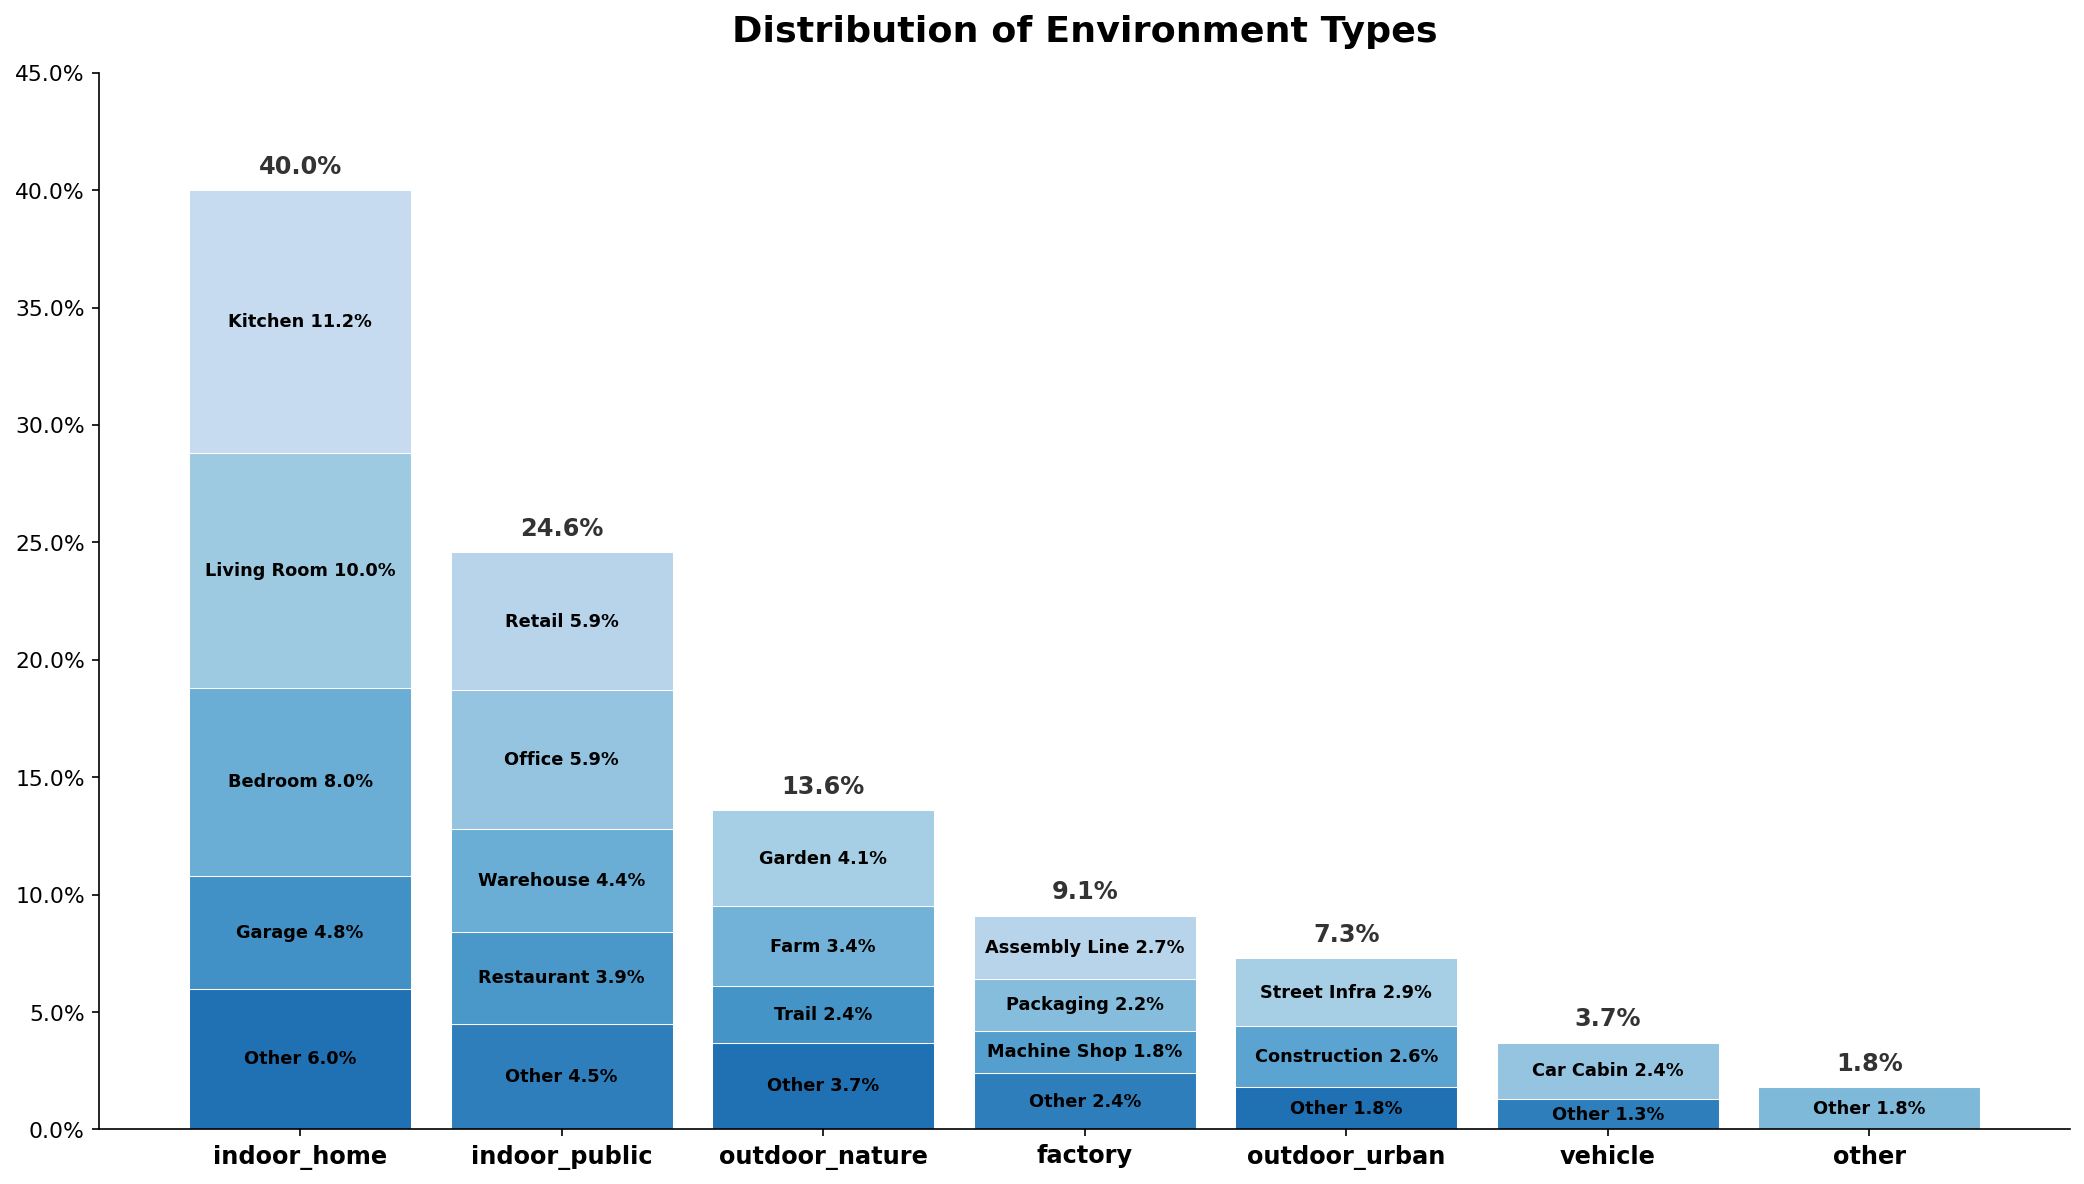
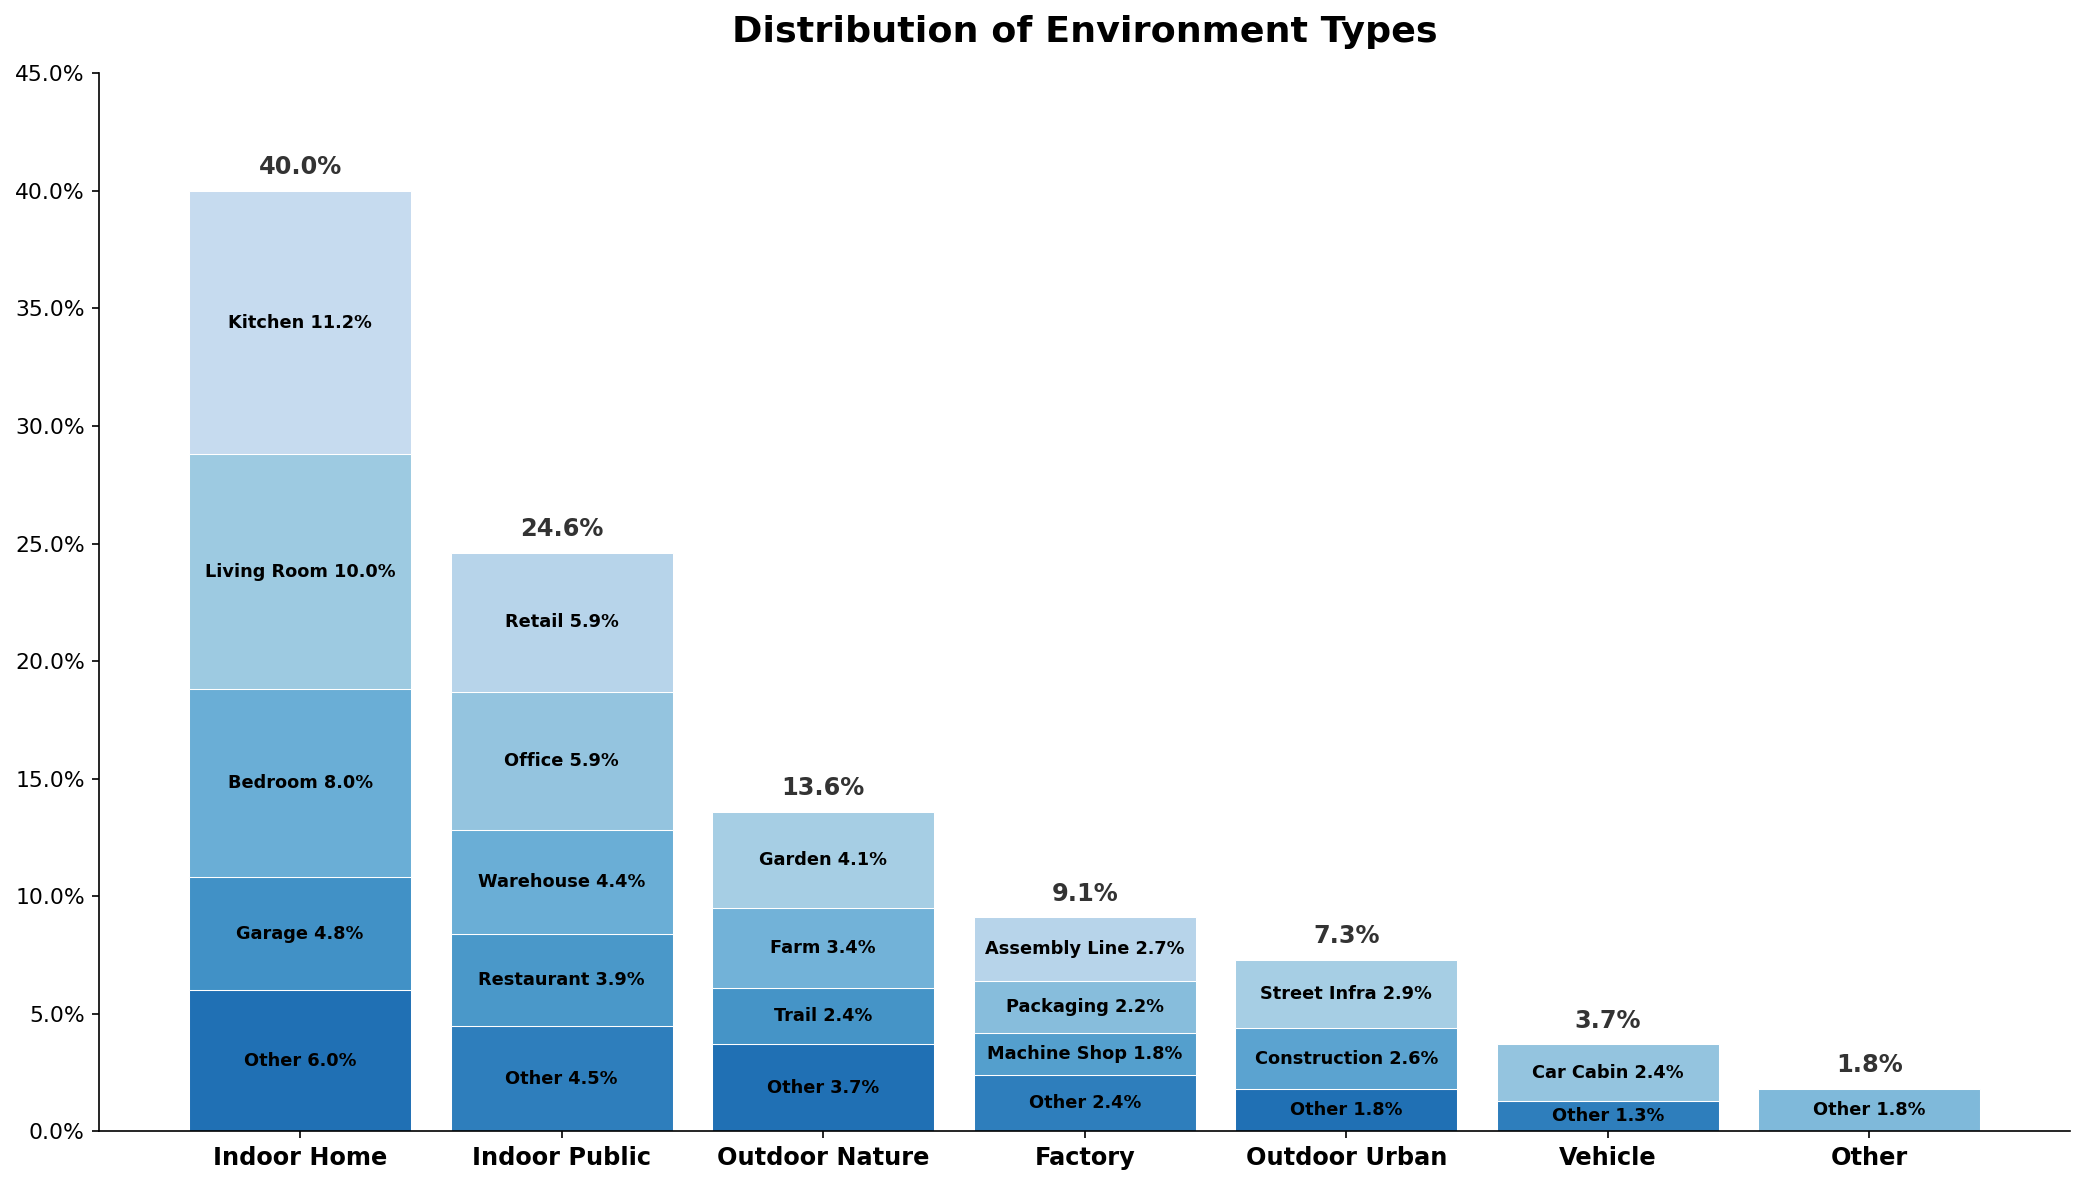
Rename environment labels to title case (e.g. indoor_home -> Indoor Home)
https://claude.ai/code/session_018xFGws4xpUTXJntMBVQsZP

diff --git a/stake_histogram.py b/stake_histogram.py
@@ -4,55 +4,55 @@ import numpy as np
 
 # Data organized by environment
 data = {
-    "indoor_home": [
+    "Indoor Home": [
         ("Kitchen", 11.2),
         ("Living Room", 10.0),
         ("Bedroom", 8.0),
         ("Garage", 4.8),
         ("Other", 6.0),
     ],
-    "indoor_public": [
+    "Indoor Public": [
         ("Retail", 5.9),
         ("Office", 5.9),
         ("Warehouse", 4.4),
         ("Restaurant", 3.9),
         ("Other", 4.5),
     ],
-    "outdoor_nature": [
+    "Outdoor Nature": [
         ("Garden", 4.1),
         ("Farm", 3.4),
         ("Trail", 2.4),
         ("Other", 3.7),
     ],
-    "factory": [
+    "Factory": [
         ("Assembly Line", 2.7),
         ("Packaging", 2.2),
         ("Machine Shop", 1.8),
         ("Other", 2.4),
     ],
-    "outdoor_urban": [
+    "Outdoor Urban": [
         ("Street Infra", 2.9),
         ("Construction", 2.6),
         ("Other", 1.8),
     ],
-    "vehicle": [
+    "Vehicle": [
         ("Car Cabin", 2.4),
         ("Other", 1.3),
     ],
-    "other": [
+    "Other": [
         ("Other", 1.8),
     ],
 }
 
 # Color palettes for each environment (different shades of blue)
 blue_ranges = {
-    "indoor_home": (0.25, 0.75),
-    "indoor_public": (0.30, 0.70),
-    "outdoor_nature": (0.35, 0.75),
-    "factory": (0.30, 0.70),
-    "outdoor_urban": (0.35, 0.75),
-    "vehicle": (0.40, 0.70),
-    "other": (0.45, 0.55),
+    "Indoor Home": (0.25, 0.75),
+    "Indoor Public": (0.30, 0.70),
+    "Outdoor Nature": (0.35, 0.75),
+    "Factory": (0.30, 0.70),
+    "Outdoor Urban": (0.35, 0.75),
+    "Vehicle": (0.40, 0.70),
+    "Other": (0.45, 0.55),
 }
 color_palettes = {
     env: plt.cm.Blues(np.linspace(lo, hi, len(data[env])))

diff --git a/stake_treemap.py b/stake_treemap.py
@@ -5,42 +5,42 @@ import squarify
 
 # Data organized by environment
 data = {
-    "indoor_home": [
+    "Indoor Home": [
         ("Kitchen", 11.2),
         ("Living room", 10.0),
         ("Bedroom", 8.0),
         ("Garage", 4.8),
         ("Other", 6.0),
     ],
-    "indoor_public": [
+    "Indoor Public": [
         ("Retail", 5.9),
         ("Office", 5.9),
         ("Warehouse", 4.4),
         ("Restaurant", 3.9),
         ("Other", 4.5),
     ],
-    "outdoor_nature": [
+    "Outdoor Nature": [
         ("Garden", 4.1),
         ("Farm", 3.4),
         ("Trail", 2.4),
         ("Other", 3.7),
     ],
-    "factory": [
+    "Factory": [
         ("Assembly line", 2.7),
         ("Packaging", 2.2),
         ("Machine shop", 1.8),
         ("Other", 2.4),
     ],
-    "outdoor_urban": [
+    "Outdoor Urban": [
         ("Street infra", 2.9),
         ("Construction site", 2.6),
         ("Other", 1.8),
     ],
-    "vehicle": [
+    "Vehicle": [
         ("Car cabin", 2.4),
         ("Other", 1.3),
     ],
-    "other": [
+    "Other": [
         ("\u2014", 1.8),
     ],
 }
@@ -51,13 +51,13 @@ env_totals = {env: sum(p for _, p in subs) for env, subs in data.items()}
 
 # Blue shade centers for each environment (spread across the blue spectrum)
 blue_centers = {
-    "indoor_home": 0.75,
-    "indoor_public": 0.60,
-    "outdoor_nature": 0.50,
-    "factory": 0.42,
-    "outdoor_urban": 0.35,
-    "vehicle": 0.28,
-    "other": 0.20,
+    "Indoor Home": 0.75,
+    "Indoor Public": 0.60,
+    "Outdoor Nature": 0.50,
+    "Factory": 0.42,
+    "Outdoor Urban": 0.35,
+    "Vehicle": 0.28,
+    "Other": 0.20,
 }
 
 # Build flat lists for treemap
